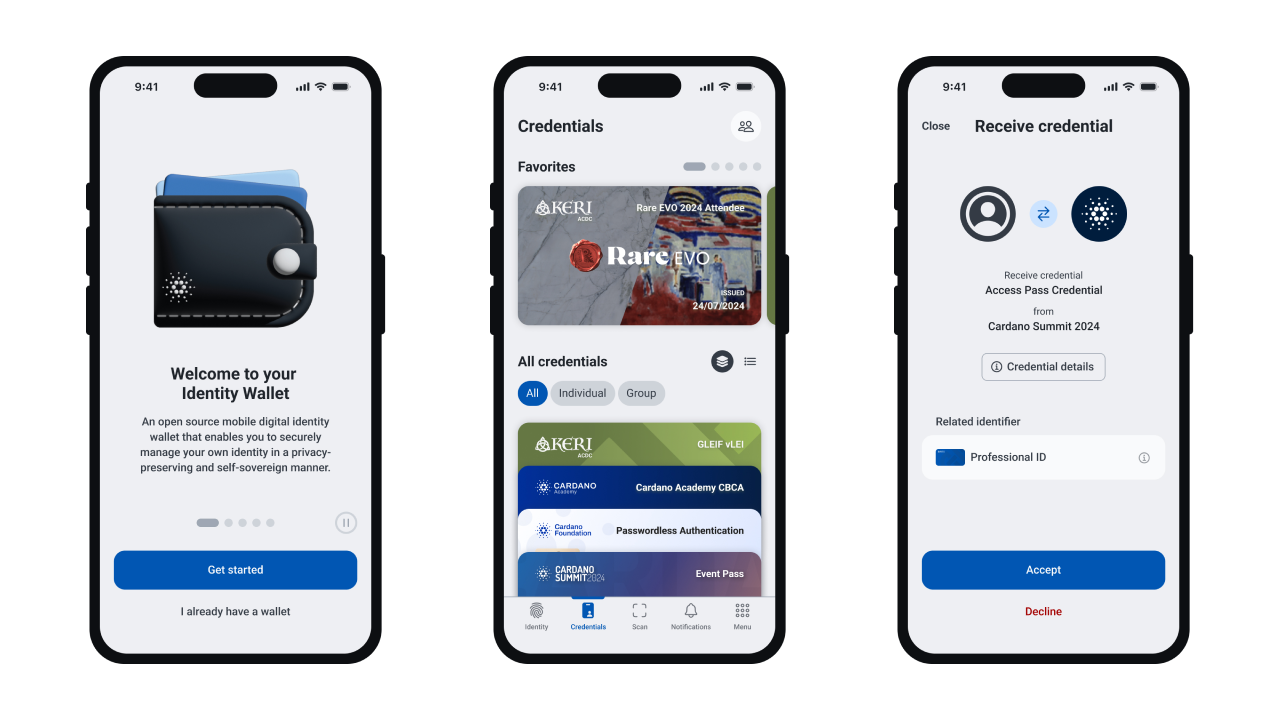
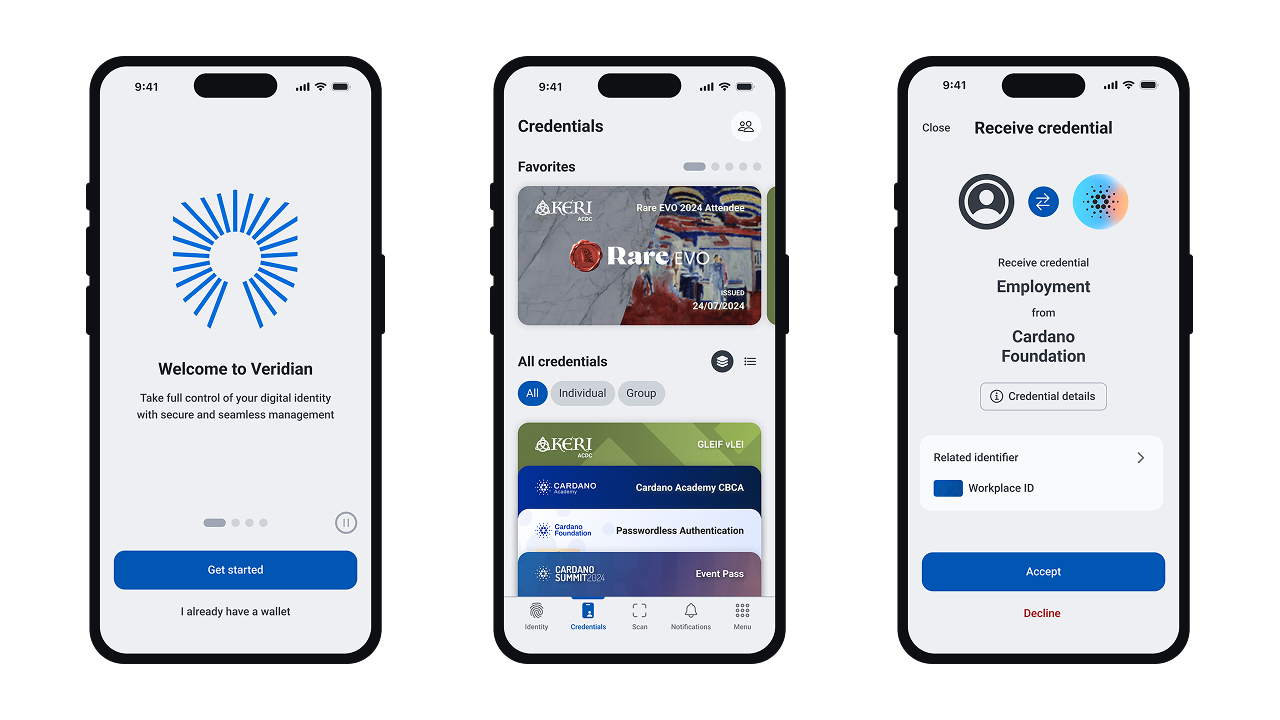
docs: update for veridian

diff --git a/src/core/agent/services/keriaNotificationService.ts b/src/core/agent/services/keriaNotificationService.ts
@@ -401,7 +401,7 @@ class KeriaNotificationService extends AgentService {
           );
         } catch (error) {
           /* eslint-disable no-console */
-          console.error(
+          console.warn(
             `Error when retrying notification ${notification.i} [attempts: ${
               attempts + 1
             }]`,

diff --git a/README.md b/README.md
@@ -1,25 +1,23 @@
 <div align="center">
   <img src="src/assets/icon-only.png" alt="Cardano Foundation | Identity Wallet" height="150" />
   <hr />
-    <h1 align="center" style="border-bottom: none">Cardano Foundation | Identity Wallet</h1>
+  <h1 align="center" style="border-bottom: none">Veridian Wallet | Cardano Foundation</h1>
 
-![GitHub](https://img.shields.io/github/license/cardano-foundation/cf-identity-wallet)
+![GitHub](https://img.shields.io/github/license/cardano-foundation/veridian-wallet)
 ![Discord](https://img.shields.io/discord/1022471509173882950)
 
   <hr/>
-</div> 
-
-# Disclaimer
-
-<div align="justify"> 
-<b> Currently, the Identity Wallet is in its final stage of development for an initial release. We are conducting third-party security audits, threat modeling, and penetration testing in preparation for deployment to the iOS and Android App Stores. Some of the information and visuals below are being updated as we move towards the release. </b>
 </div>
-<br>
 
 # Overview
 
 <div align="justify"> 
-<b> The Identity Wallet is an open source application developed by the Cardano Foundation. This project is the result of ongoing research and development pertaining to the principles of Self-Sovereign Identity (SSI), Self-Certifying Identifiers (SCIs), Verifiable Data Registries (VDRs), and the standards, frameworks, and implementations available within the Cardano ecosystem and externally. The first release of Identity Wallet provides an open source reference implementation demonstrating the Key Event Receipt Infrastructure (KERI) on Cardano. </b>
+  <b>
+    Veridian Wallet is an open source application developed by the Cardano Foundation.
+    This project is the result of on-going research and development pertaining to the principles of Self-Sovereign Identity (SSI), Self-Certifying Identifiers (SCIs), Verifiable Data Registries (VDRs), and the standards, frameworks, and implementations available within the Cardano ecosystem and externally.
+    The first release of the wallet provides an open source implementation demonstrating the Key Event Receipt Infrastructure (KERI) on Cardano.
+    This wallet has undergone security auditing and penetration testing, and mitigations have been applied.
+  </b>
 </div>
 
 <br>
@@ -29,6 +27,10 @@
       <img src="docs/images/readme/User-Flow-Preview.png" alt="User Flow Preview" width="720"/>
   </kbd>
 </p>
+
+<br>
+
+Check out [our documentation](https://docs.veridian.id/) to learn how to use the app, connect to infrastructure and start developing with KERI!
 
 <br>
 
@@ -46,7 +48,7 @@
   
  # Future Developments
  
-- Encryption at rest with local backup & restore (Compatible with Hyperledger [Aries Askar](https://github.com/hyperledger/aries-askar))
+- Hyperledger [Aries Askar](https://github.com/hyperledger/aries-askar) compatible encryption-at-rest to replace SQLCipher
 - Social and multi-device identifier recovery
 - P2P Chat
 - Delegated multi-sig for organisational identity
@@ -61,31 +63,7 @@
 - [KERIA Cloud Agent](https://github.com/cardano-foundation/keria)
 - [Signify-TS Edge Client](https://github.com/cardano-foundation/signify-ts)
 - [Verifiable Credential Testing Tool](https://cred-issuance-ui.dev.idw-sandboxes.cf-deployments.org/)
-- [KERI on Cardano](https://github.com/cardano-foundation/cardano-backer/tree/feat/watchpoc)
-
-# Architecture
-<div align="center"> 
-  <p>
-    <a href="https://raw.githubusercontent.com/cardano-foundation/cf-identity-wallet/main/docs/images/readme/Architecture-Diagram.svg">
-    <img src="docs/images/readme/Architecture-Diagram.svg" alt="Identity Wallet Architecture">
-    </a>  
-  </p>     
-</div>
-
-# User Flows
-In this section, you'll find detailed PDF documents outlining the various user flows within our application. These user flows serve as comprehensive guides, illustrating the application's user journeys step-by-step. Please feel free to explore and gain insight into the following user flows:
-- [Introduction](https://drive.google.com/file/d/1_Oem0Wu_U8XPyfpzzKX8A0ZHJN0jztDx/view?usp=drive_link)
-- [Onboarding](https://drive.google.com/file/d/1lMNwS30oq9X_rKVGvB3hHXDpcztPC7sy/view?usp=drive_link)
-- [Recovery](https://drive.google.com/file/d/1JzgIY0SztyM-3mHstOZAu2Y6DtevrAyc/view?usp=drive_link)
-- [Login](https://drive.google.com/file/d/1dky8DUNRPDkzmplftRwA9VfK-puVU5SC/view?usp=drive_link)
-- [Identifiers](https://drive.google.com/file/d/15Shxt8B0bmZjs5465Z9w976Luc1ySkEX/view?usp=drive_link)
-- [Connections](https://drive.google.com/file/d/1k2LSycp24vbMosVBSducWGScNyMt0Ge9/view?usp=drive_link)
-- [Credentials](https://drive.google.com/file/d/17Ws8l5zyOZFYDrqw277nklERYw0I8Sn6/view?usp=drive_link)
-- [Scan](https://drive.google.com/file/d/1ugZWy5pqakr6uJACWxTc6QqxZIU-JOeM/view?usp=drive_link)
-- [Notifications](https://drive.google.com/file/d/1tdu46c1ioB5D3b_tFjNxPwcBd1ZuHviU/view?usp=drive_link)
-- [Menu & Settings](https://drive.google.com/file/d/1UF98ttKIxaPqxrjDDDZwp9QNtwfVwtnZ/view?usp=drive_link)
-- [Cardano Connect](https://drive.google.com/file/d/1KNt8Fb8VGqnq_p6EY0nEog7WDR07BX3T/view?usp=drive_link)
-- [Verify Options](https://drive.google.com/file/d/1akOEf1GRGvVd4vNcWFNF4KOox5iuXOnv/view?usp=drive_link)
+- [KERI on Cardano](https://github.com/cardano-foundation/cardano-backer)
 
 # Getting Started
 
@@ -103,8 +81,8 @@ Ensure that your system meets these requirements to successfully use and develop
 ### Cloning the Repository
 
 ```bash
-git clone https://github.com/cardano-foundation/cf-identity-wallet.git
-cd cf-identity-wallet
+git clone https://github.com/cardano-foundation/veridian-wallet.git
+cd veridian-wallet
 make init # This will configure the git hooks
 ```
 
@@ -139,10 +117,11 @@ You can gain additional insights into end-to-end testing by visiting the provide
 
 # Contributing
 
-All contributions are welcome! Please feel free to open a new thread on the issue tracker or submit a new pull request.
+All contributions are welcome!
+Please feel free to open a new thread on the issue tracker or submit a new pull request.
 
-
-Please read [Contributing](CONTRIBUTING.md) in advance.  Thank you for contributing!
+Please read [Contributing](CONTRIBUTING.md) in advance.
+Thank you for contributing!
 
 ## Additional Documents
 - [Code of Conduct](CODE_OF_CONDUCT.md)
@@ -181,7 +160,6 @@ If you encounter any issues or have questions, please drop us a message on our D
 # License
 
 <div align="justify">
-
 This project was previously licensed under MPL-2.0 up until commit `49f9811c363bb1c05a5349d4aa3434793a1b3a39`.
 It is now licensed under Apache 2.0. Any prior versions remain available under MPL-2.0.
 

diff --git a/CONTRIBUTING.md b/CONTRIBUTING.md
@@ -2,22 +2,22 @@
 
 First off, thanks for taking the time to contribute! 🎉
 
-When contributing to this repository, please first describe the change you wish to make [via an issue](https://github.com/cardano-foundation/cf-identity-wallet/issues/new) before making a change.
+When contributing to this repository, please first describe the change you wish to make [via an issue](https://github.com/cardano-foundation/veridian-wallet/issues/new) before making a change.
 Please note we have a [code of conduct](CODE_OF_CONDUCT.md), please follow it in all your interactions with the project.
 
 ## Issues and pull requests
 
 ### Bug reports
 
-[Submit a bug report](https://github.com/cardano-foundation/cf-identity-wallet/issues/new?assignees=&labels=&projects=&template=bug_report.yml&title=%5BBUG%5D+) using the provided template for bug reports. If the template does not fit your purpose start with a blank issue.
+[Submit a bug report](https://github.com/cardano-foundation/veridian-wallet/issues/new?assignees=&labels=&projects=&template=bug_report.yml&title=%5BBUG%5D+) using the provided template for bug reports. If the template does not fit your purpose start with a blank issue.
 
 For bug reports, it's very important to fill in the information in the structure provided by the templates to help us analyzing the bug.
 
 ### Feature requests and ideas
 
-[Submit a feature request](https://github.com/cardano-foundation/cf-identity-wallet/issues/new?assignees=&labels=&projects=&template=feature_request.yml&title=%5BFEATURE%5D+) using the provided template for feature requests. If the template does not fit your purpose start with a blank issue but make sure the name starts with a "FEATURE" in square brackets.
+[Submit a feature request](https://github.com/cardano-foundation/veridian-wallet/issues/new?assignees=&labels=&projects=&template=feature_request.yml&title=%5BFEATURE%5D+) using the provided template for feature requests. If the template does not fit your purpose start with a blank issue but make sure the name starts with a "FEATURE" in square brackets.
 
-If you are starting with a very vague idea instead of a concrete feature request post it in the [discussions section](https://github.com/cardano-foundation/cf-identity-wallet/discussions) of the repository where we can refine the idea with you and create a structured feature request from it.
+If you are starting with a very vague idea instead of a concrete feature request post it in the [discussions section](https://github.com/cardano-foundation/veridian-wallet/discussions) of the repository where we can refine the idea with you and create a structured feature request from it.
 
 ### Creating a pull request
 
